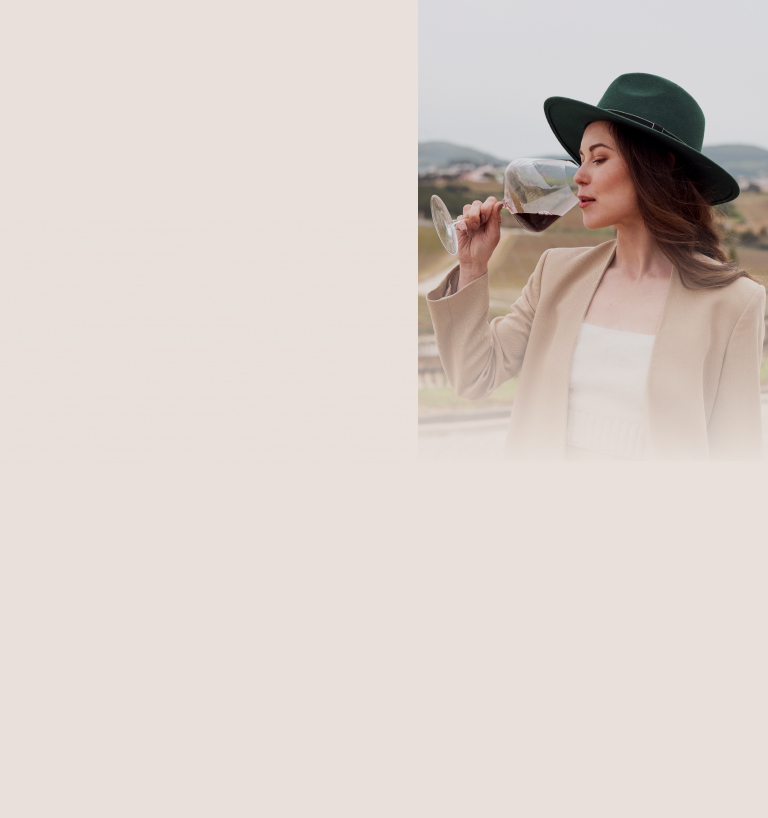
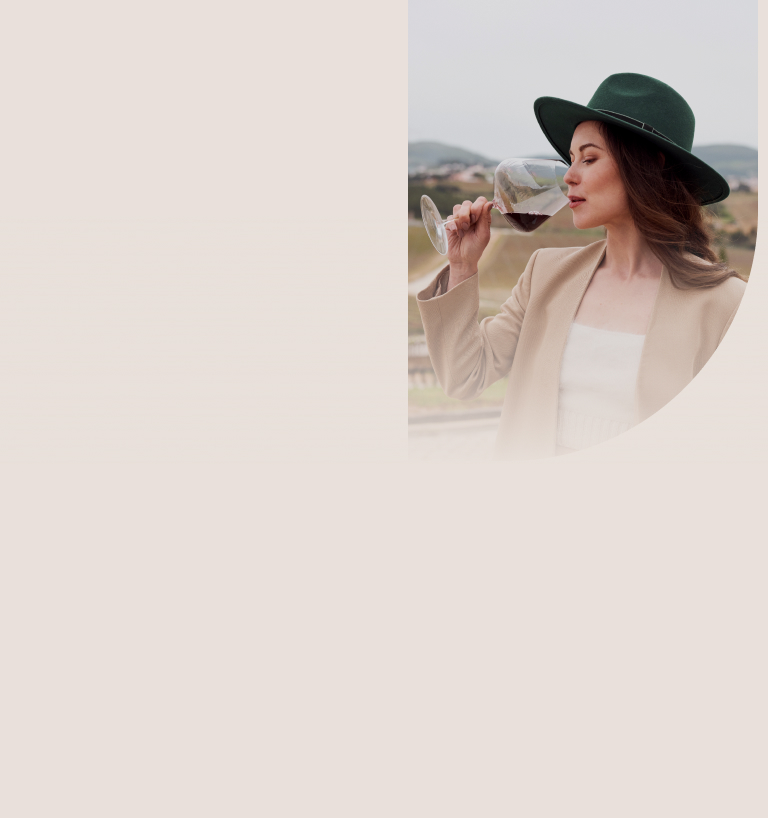
update backgrounds

Changed region(s): [[0.5312, 0.0917, 1.0, 0.5501], [0.8125, 0.4279, 0.8438, 0.489], [0.8438, 0.3973, 0.875, 0.4279]]

diff --git a/src/css/styles.css b/src/css/styles.css
@@ -90,7 +90,14 @@ p {
   }
 }
 
+@media screen and (min-width: 1440px) {
+}
+
 /* header */
+
+.header {
+  background-color: #e8e0da;
+}
 
 .header-background {
   padding-top: 20px;
@@ -402,7 +409,7 @@ p {
     background-repeat: no-repeat;
     background-size: cover;
 
-    max-width: 768px;
+    max-width: 800px;
     margin-left: auto;
     margin-right: auto;
   }
@@ -586,8 +593,9 @@ p {
     padding-bottom: 80px;
 
     background-image: url(../images/for-whom-tablet-1x.jpg);
+    background-position: center;
 
-    max-width: 768px;
+    max-width: 100%;
   }
 
   @media (min-device-pixel-ratio: 2),
@@ -1528,7 +1536,8 @@ p {
     padding-top: 80px;
     padding-bottom: 80px;
     background-image: url(../images/study-reviews-background-tablet-1x.jpg);
-    max-width: 768px;
+
+    max-width: 100%;
   }
 
   @media (min-device-pixel-ratio: 2),
@@ -1847,7 +1856,7 @@ p {
     padding-top: 80px;
     padding-bottom: 80px;
 
-    max-width: 768px;
+    max-width: 100%;
   }
 
   .questions-title {
@@ -1980,7 +1989,7 @@ p {
 
 @media screen and (min-width: 768px) {
   .footer {
-    max-width: 768px;
+    max-width: 100%;
     padding-top: 80px;
     padding-bottom: 100px;
   }
